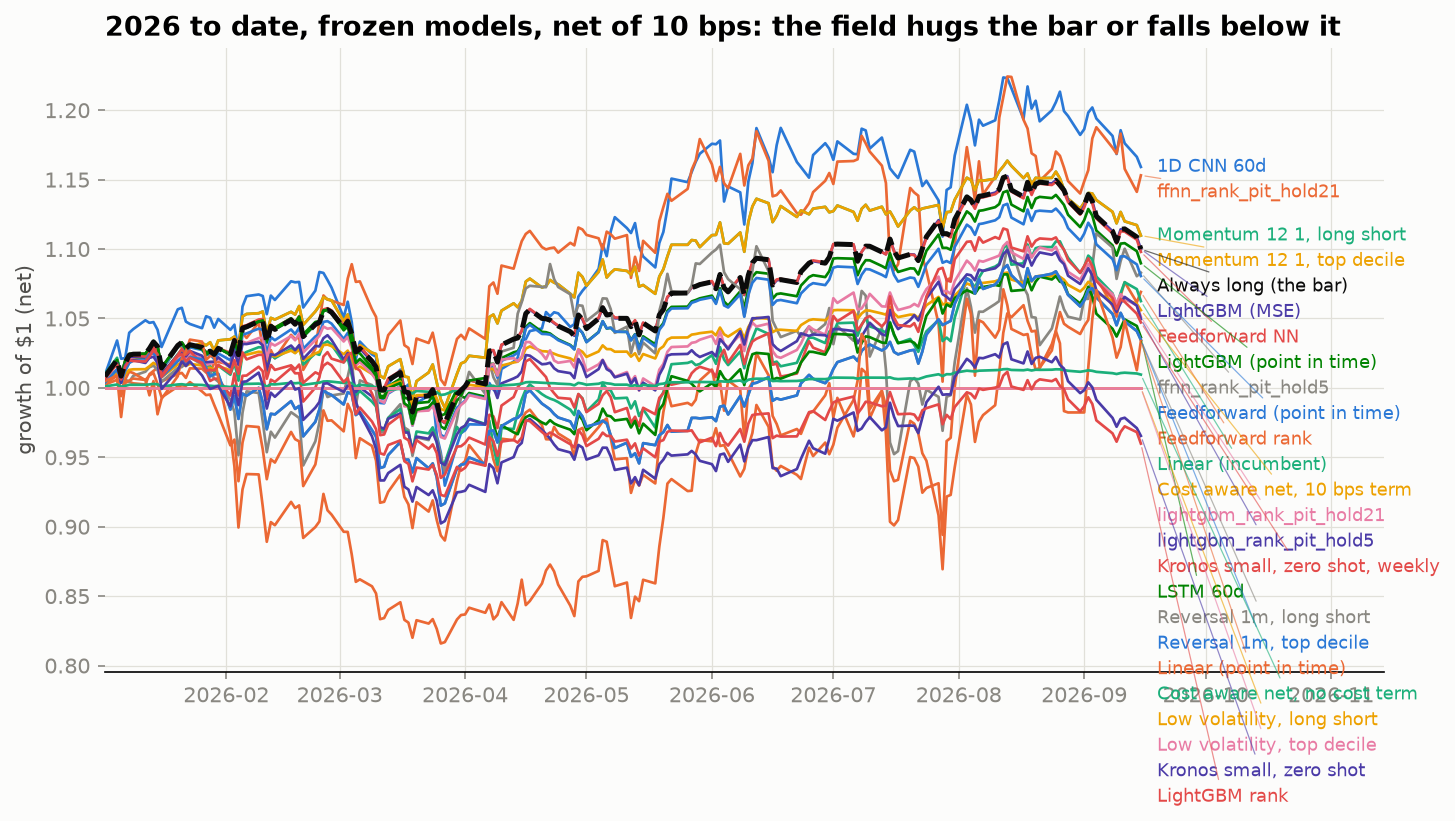
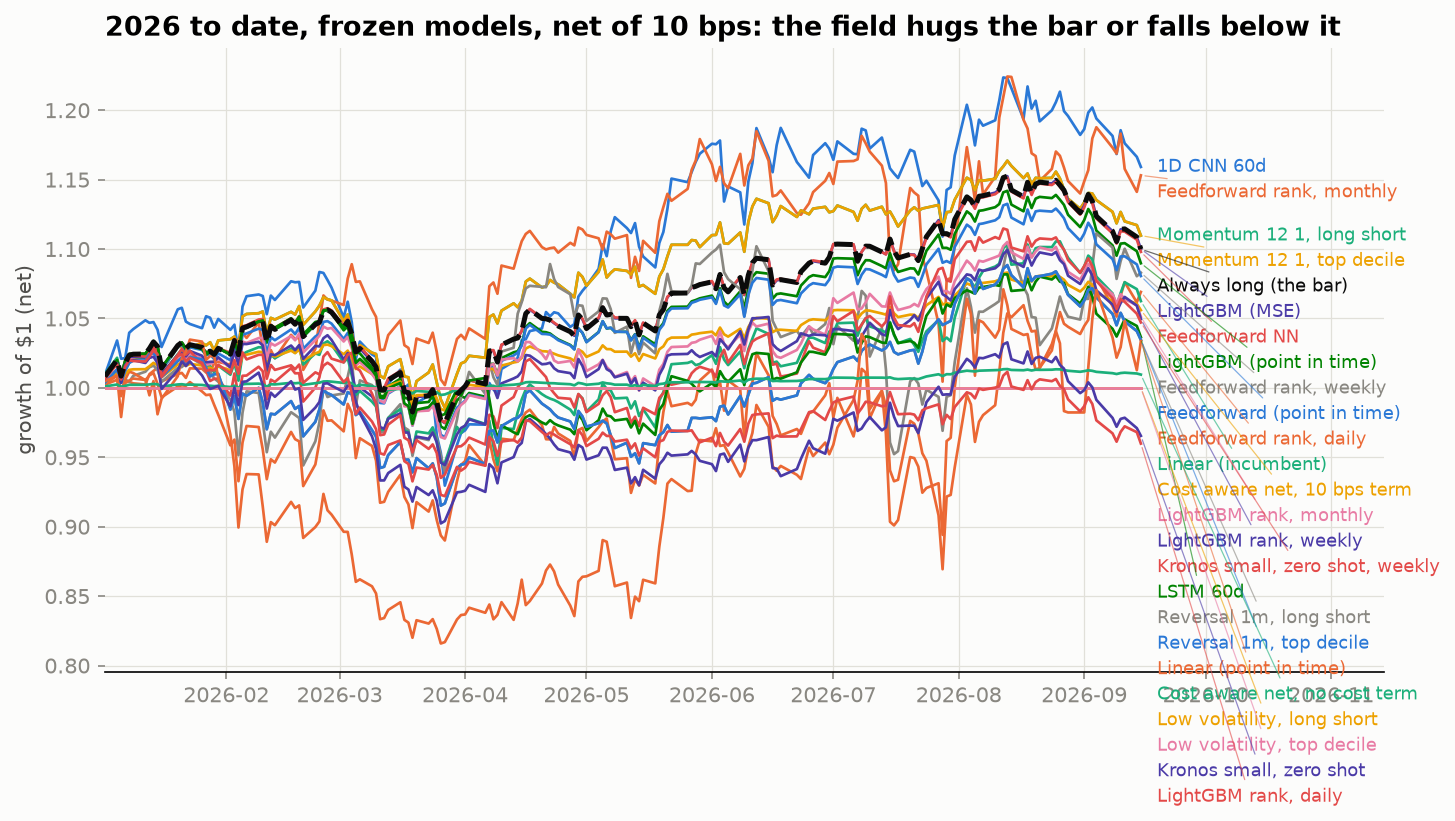
Make a board of twenty five readable
Name the remaining contestants, size the figure to its content, and clip
the axis to the bulk of the intervals so that one contestant at minus
five does not squash the rest; anything running off the page is drawn as
an arrow rather than silently cropped.

diff --git a/scripts/make_figures.py b/scripts/make_figures.py
@@ -47,8 +47,10 @@ LABELS = {
     "reversal_1m_long_short": "Reversal 1m, long short",
     "reversal_1m_long_top": "Reversal 1m, top decile",
     "linear_pit": "Linear (point in time)", "lightgbm_pit": "LightGBM (point in time)",
-    "lightgbm_rank_pit": "LightGBM rank", "ffnn_pit": "Feedforward (point in time)",
-    "ffnn_rank_pit": "Feedforward rank",
+    "lightgbm_rank_pit": "LightGBM rank, daily", "ffnn_pit": "Feedforward (point in time)",
+    "ffnn_rank_pit": "Feedforward rank, daily",
+    "lightgbm_rank_pit_hold5": "LightGBM rank, weekly", "lightgbm_rank_pit_hold21": "LightGBM rank, monthly",
+    "ffnn_rank_pit_hold5": "Feedforward rank, weekly", "ffnn_rank_pit_hold21": "Feedforward rank, monthly",
 }
 
 
@@ -65,20 +67,34 @@ def fig_net_edge(board):
                    key=lambda n: next(en["windows"][first]["net_edge"] for en in board["entries"] if en["meta"]["name"] == n))
     by_name = {en["meta"]["name"]: en["windows"] for en in board["entries"]}
     has_inv = board.get("investable_bar") is not None
-    fig, axes = plt.subplots(1, 2, figsize=(12, 5.8), sharey=True)
+    fig, axes = plt.subplots(1, 2, figsize=(12, max(5.8, 0.28 * len(order) + 2.2)), sharey=True)
     for ax, (wname, (s, e)) in zip(axes, windows):
+        # One contestant can be far enough below zero to squash everyone else, so the axis
+        # covers the bulk and anything beyond it is drawn as an arrow at the edge.
+        edges = [by_name[n][wname]["ci_low"] for n in order if wname in by_name[n]]
+        highs = [by_name[n][wname]["ci_high"] for n in order if wname in by_name[n]]
+        lo_lim = float(np.quantile(edges, 0.10)) * 1.35
+        hi_lim = max(float(np.quantile(highs, 0.95)) * 1.2, 0.3)
         for i, name in enumerate(order):
             r = by_name[name].get(wname)
             if r is None:
                 continue
             c = GOOD if r["clears_bar"] else (BAD if r["ci_high"] < 0 else MUTED)
-            ax.plot([r["ci_low"], r["ci_high"]], [i, i], color=c, lw=2.2, solid_capstyle="round")
-            ax.plot(r["net_edge"], i, "o", color=c, ms=7, zorder=3)
+            lo, hi = max(r["ci_low"], lo_lim), min(r["ci_high"], hi_lim)
+            ax.plot([lo, hi], [i, i], color=c, lw=2.2, solid_capstyle="round")
+            if r["ci_low"] < lo_lim:                       # the interval runs off the page
+                ax.annotate("", xy=(lo_lim, i), xytext=(lo_lim + 0.06 * (hi_lim - lo_lim), i),
+                            arrowprops=dict(arrowstyle="-|>", color=c, lw=1.6))
+            if lo_lim <= r["net_edge"] <= hi_lim:
+                ax.plot(r["net_edge"], i, "o", color=c, ms=7, zorder=3)
             if has_inv and "edge_vs_investable" in r:      # hollow marker: the same contestant against RSP
                 y = i - 0.28
-                ax.plot([r["ci_low_vs_investable"], r["ci_high_vs_investable"]], [y, y], color=ORANGE, lw=1.2, alpha=0.9)
-                ax.plot(r["edge_vs_investable"], y, "o", mfc="white", mec=ORANGE, mew=1.4, ms=6, zorder=3)
+                ax.plot([max(r["ci_low_vs_investable"], lo_lim), min(r["ci_high_vs_investable"], hi_lim)],
+                        [y, y], color=ORANGE, lw=1.2, alpha=0.9)
+                if lo_lim <= r["edge_vs_investable"] <= hi_lim:
+                    ax.plot(r["edge_vs_investable"], y, "o", mfc="white", mec=ORANGE, mew=1.4, ms=6, zorder=3)
         ax.axvline(0, color=INK, lw=1.0)
+        ax.set_xlim(lo_lim, hi_lim)
         ax.set_title(f"{wname.replace('_', ' ')}: {s} to {e}", pad=8)
     axes[0].set_yticks(np.arange(len(order)))
     axes[0].set_yticklabels([label(n) for n in order])
